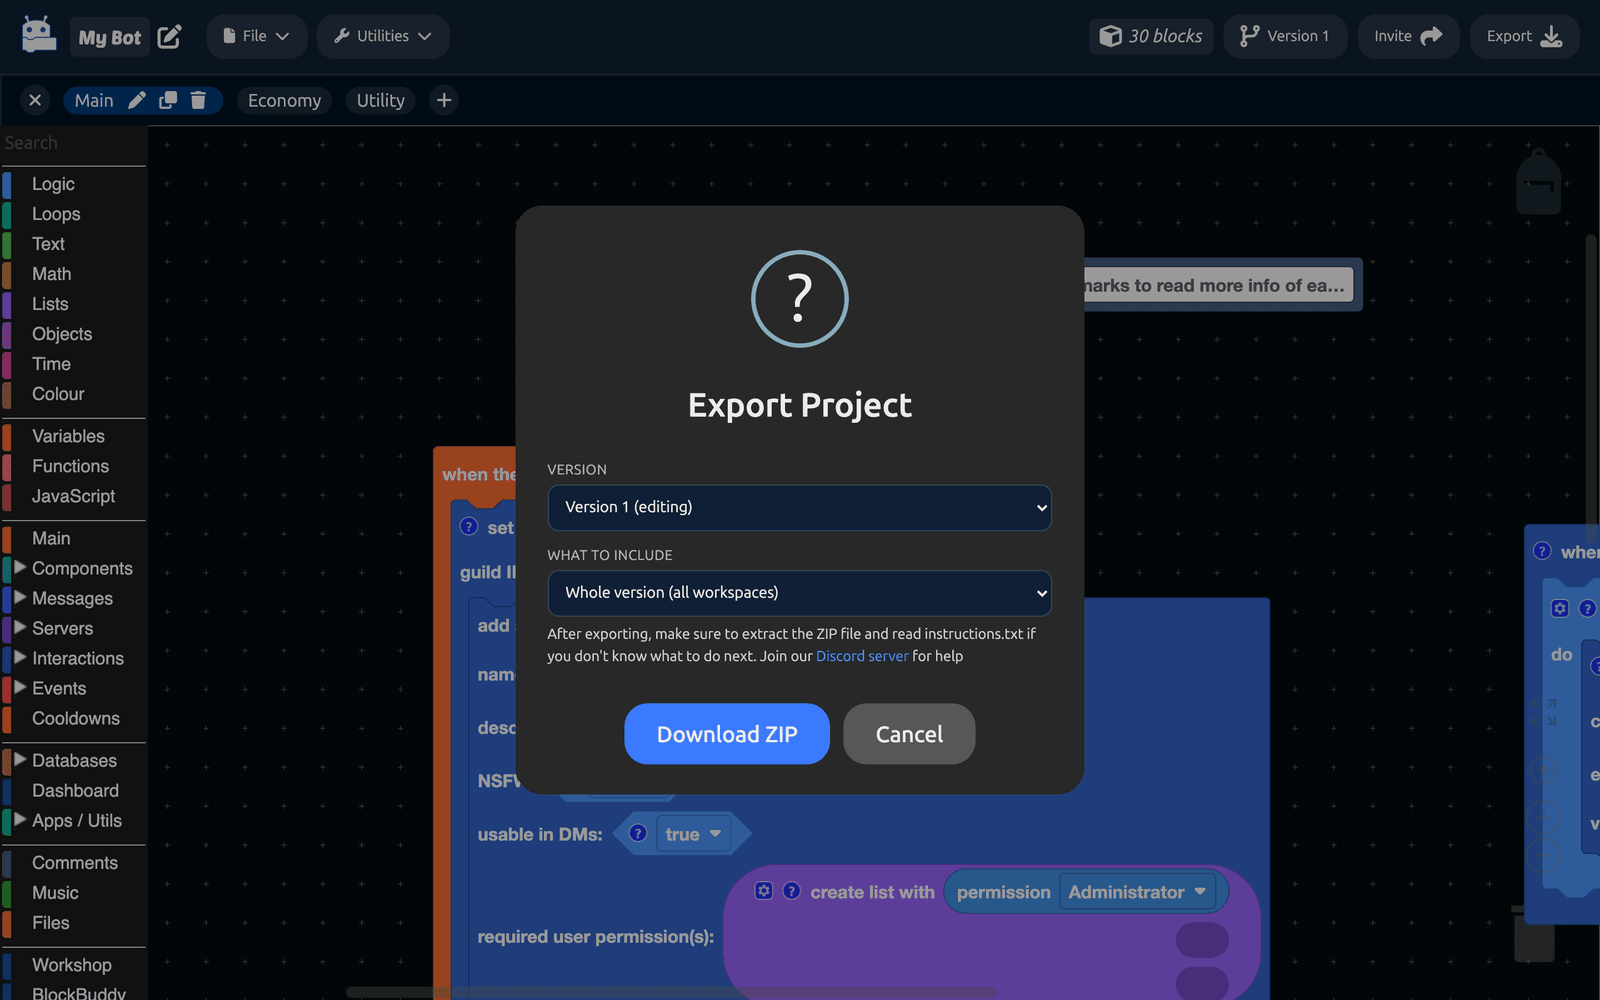
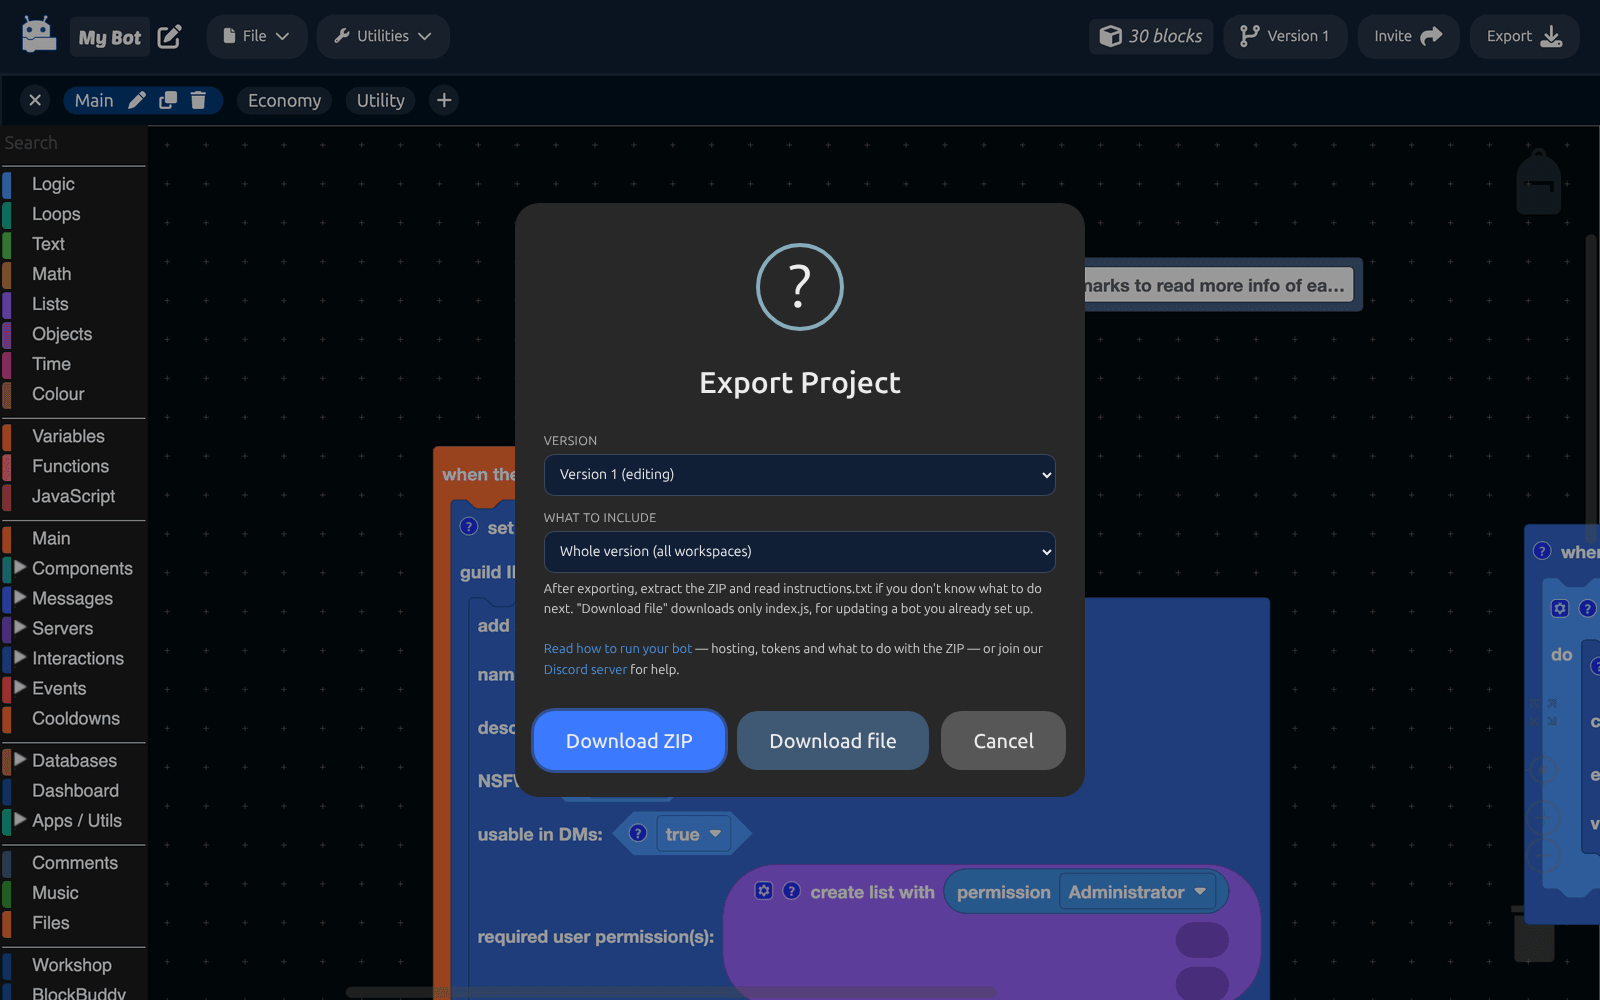
Documented 'Download file' export option

Changed region(s): [[0.3125, 0.434, 0.6875, 0.775], [0.4375, 0.372, 0.5625, 0.434], [0.4688, 0.248, 0.5312, 0.341]]

diff --git a/docs/Guide/running-your-bot.md b/docs/Guide/running-your-bot.md
@@ -21,6 +21,12 @@ Export the whole thing unless you are deliberately testing one workspace on its 
 
 Click **Download ZIP**.
 
+### Download only the code
+
+Already have your bot set up on a host? Click **Download file** instead of **Download ZIP**. You get just `index.js`, the bot's code, with no ZIP to extract and delete afterwards. Replace the old `index.js` on your host with it.
+
+This is only for updating a bot that already runs. `index.js` alone has no `package.json` or `.env`, so a first export needs the ZIP. If you added blocks that need a new library, export the ZIP again so `package.json` lists it.
+
 :::info
 The exported files are a snapshot. Change your blocks and you have to export again and re-upload, or your host keeps running the old code.
 :::

diff --git a/docs/Guide/the-editor.md b/docs/Guide/the-editor.md
@@ -25,7 +25,7 @@ Across the top, from left to right:
 | **Save state** | Saving, saved, reconnecting, or an error. |
 | **Versions** | Opens [Version Control](version-control.md). Shows the active version's name. |
 | **Invite** | Opens the [collaborators](collaboration.md) panel. |
-| **Export** | Downloads your bot as a ZIP. See [Running your bot](running-your-bot.md). |
+| **Export** | Downloads your bot as a ZIP, or just its `index.js`. See [Running your bot](running-your-bot.md). |
 
 ### The File menu
 
